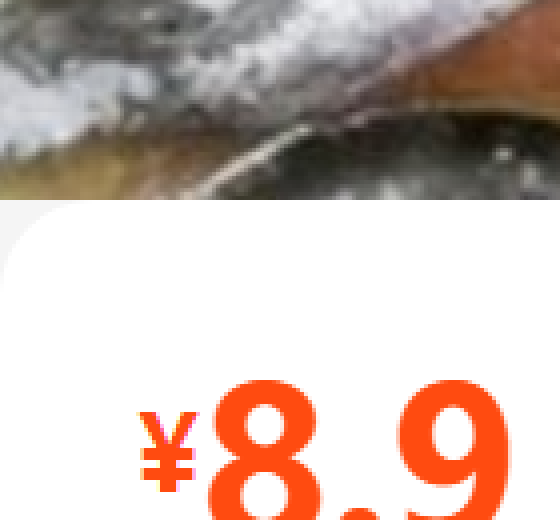
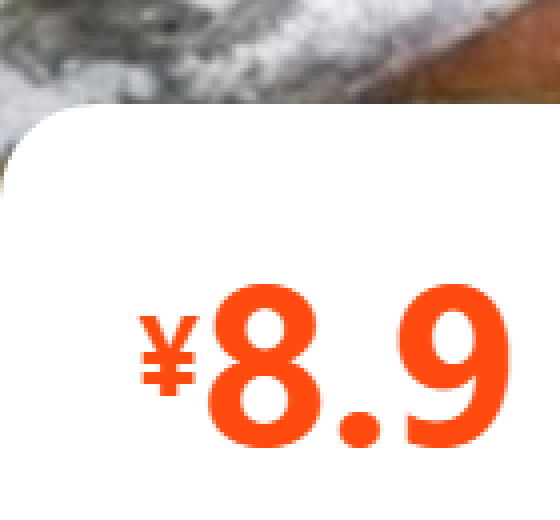
美团商品团购详情页复刻（Flutter）：数据驱动版式 + 抓包瘦身 + 粘贴数据页 + CI 打包

diff --git a/lib/widgets/deal_sections.dart b/lib/widgets/deal_sections.dart
@@ -171,6 +171,30 @@ class DealTopBar extends StatelessWidget {
 }
 
 /// 价格 + 标题 + 口碑 + 服务标签
+/// 大图 + 价格卡：价格卡向上叠压 12px，
+/// 这样卡片顶部的圆角处露出来的是大图，而不是页面底色（否则圆角会变成两个「灰方块」）。
+class BannerAndPrice extends StatelessWidget {
+  final DealDetail deal;
+
+  const BannerAndPrice({super.key, required this.deal});
+
+  @override
+  Widget build(BuildContext context) {
+    final double top = MediaQuery.of(context).padding.top;
+    const double overlap = 12;
+    return Stack(
+      clipBehavior: Clip.none,
+      children: <Widget>[
+        BannerSection(images: deal.bannerImages, label: deal.title),
+        Padding(
+          padding: EdgeInsets.only(top: S.bannerH + top - overlap),
+          child: PriceSection(deal: deal),
+        ),
+      ],
+    );
+  }
+}
+
 class PriceSection extends StatelessWidget {
   final DealDetail deal;
 
@@ -304,19 +328,23 @@ class PriceSection extends StatelessWidget {
                         top: 0,
                         bottom: 0,
                         child: Center(
-                          child: Row(
-                            mainAxisSize: MainAxisSize.min,
-                            children: <Widget>[
-                              const Text('＝', style: TextStyle(fontSize: 12, color: C.t1)),
-                              const SizedBox(width: 8),
-                              _equationItem('零售价', '¥${deal.retailPrice}', help: true),
-                              const SizedBox(width: 14),
-                              if (deal.promotionAmount.isNotEmpty) ...<Widget>[
-                                const Text('−', style: TextStyle(fontSize: 12, color: C.t1)),
+                          child: Transform.translate(
+                            // 参考里等式组整体比价格数字略高一点（组中线在价格墨迹中线之上 ~4）
+                            offset: const Offset(0, -6),
+                            child: Row(
+                              mainAxisSize: MainAxisSize.min,
+                              children: <Widget>[
+                                const Text('＝', style: TextStyle(fontSize: 12, color: C.t1)),
+                                const SizedBox(width: 8),
+                                _equationItem('零售价', '¥${deal.retailPrice}', help: true),
                                 const SizedBox(width: 14),
-                                _equationItem('团购优惠', '¥${deal.promotionAmount}'),
+                                if (deal.promotionAmount.isNotEmpty) ...<Widget>[
+                                  const Text('−', style: TextStyle(fontSize: 12, color: C.t1)),
+                                  const SizedBox(width: 14),
+                                  _equationItem('团购优惠', '¥${deal.promotionAmount}'),
+                                ],
                               ],
-                            ],
+                            ),
                           ),
                         ),
                       ),

diff --git a/lib/pages/deal_detail_page.dart b/lib/pages/deal_detail_page.dart
@@ -68,8 +68,7 @@ class _DealDetailPageState extends State<DealDetailPage> {
               padding: EdgeInsets.only(bottom: 64 + bottomInset),
               physics: const ClampingScrollPhysics(),
               children: <Widget>[
-                BannerSection(images: deal.bannerImages, label: deal.title),
-                PriceSection(deal: deal),
+                BannerAndPrice(deal: deal),
                 const SizedBox(height: S.gap),
                 MenuSection(deal: deal),
                 const SizedBox(height: S.gap),
